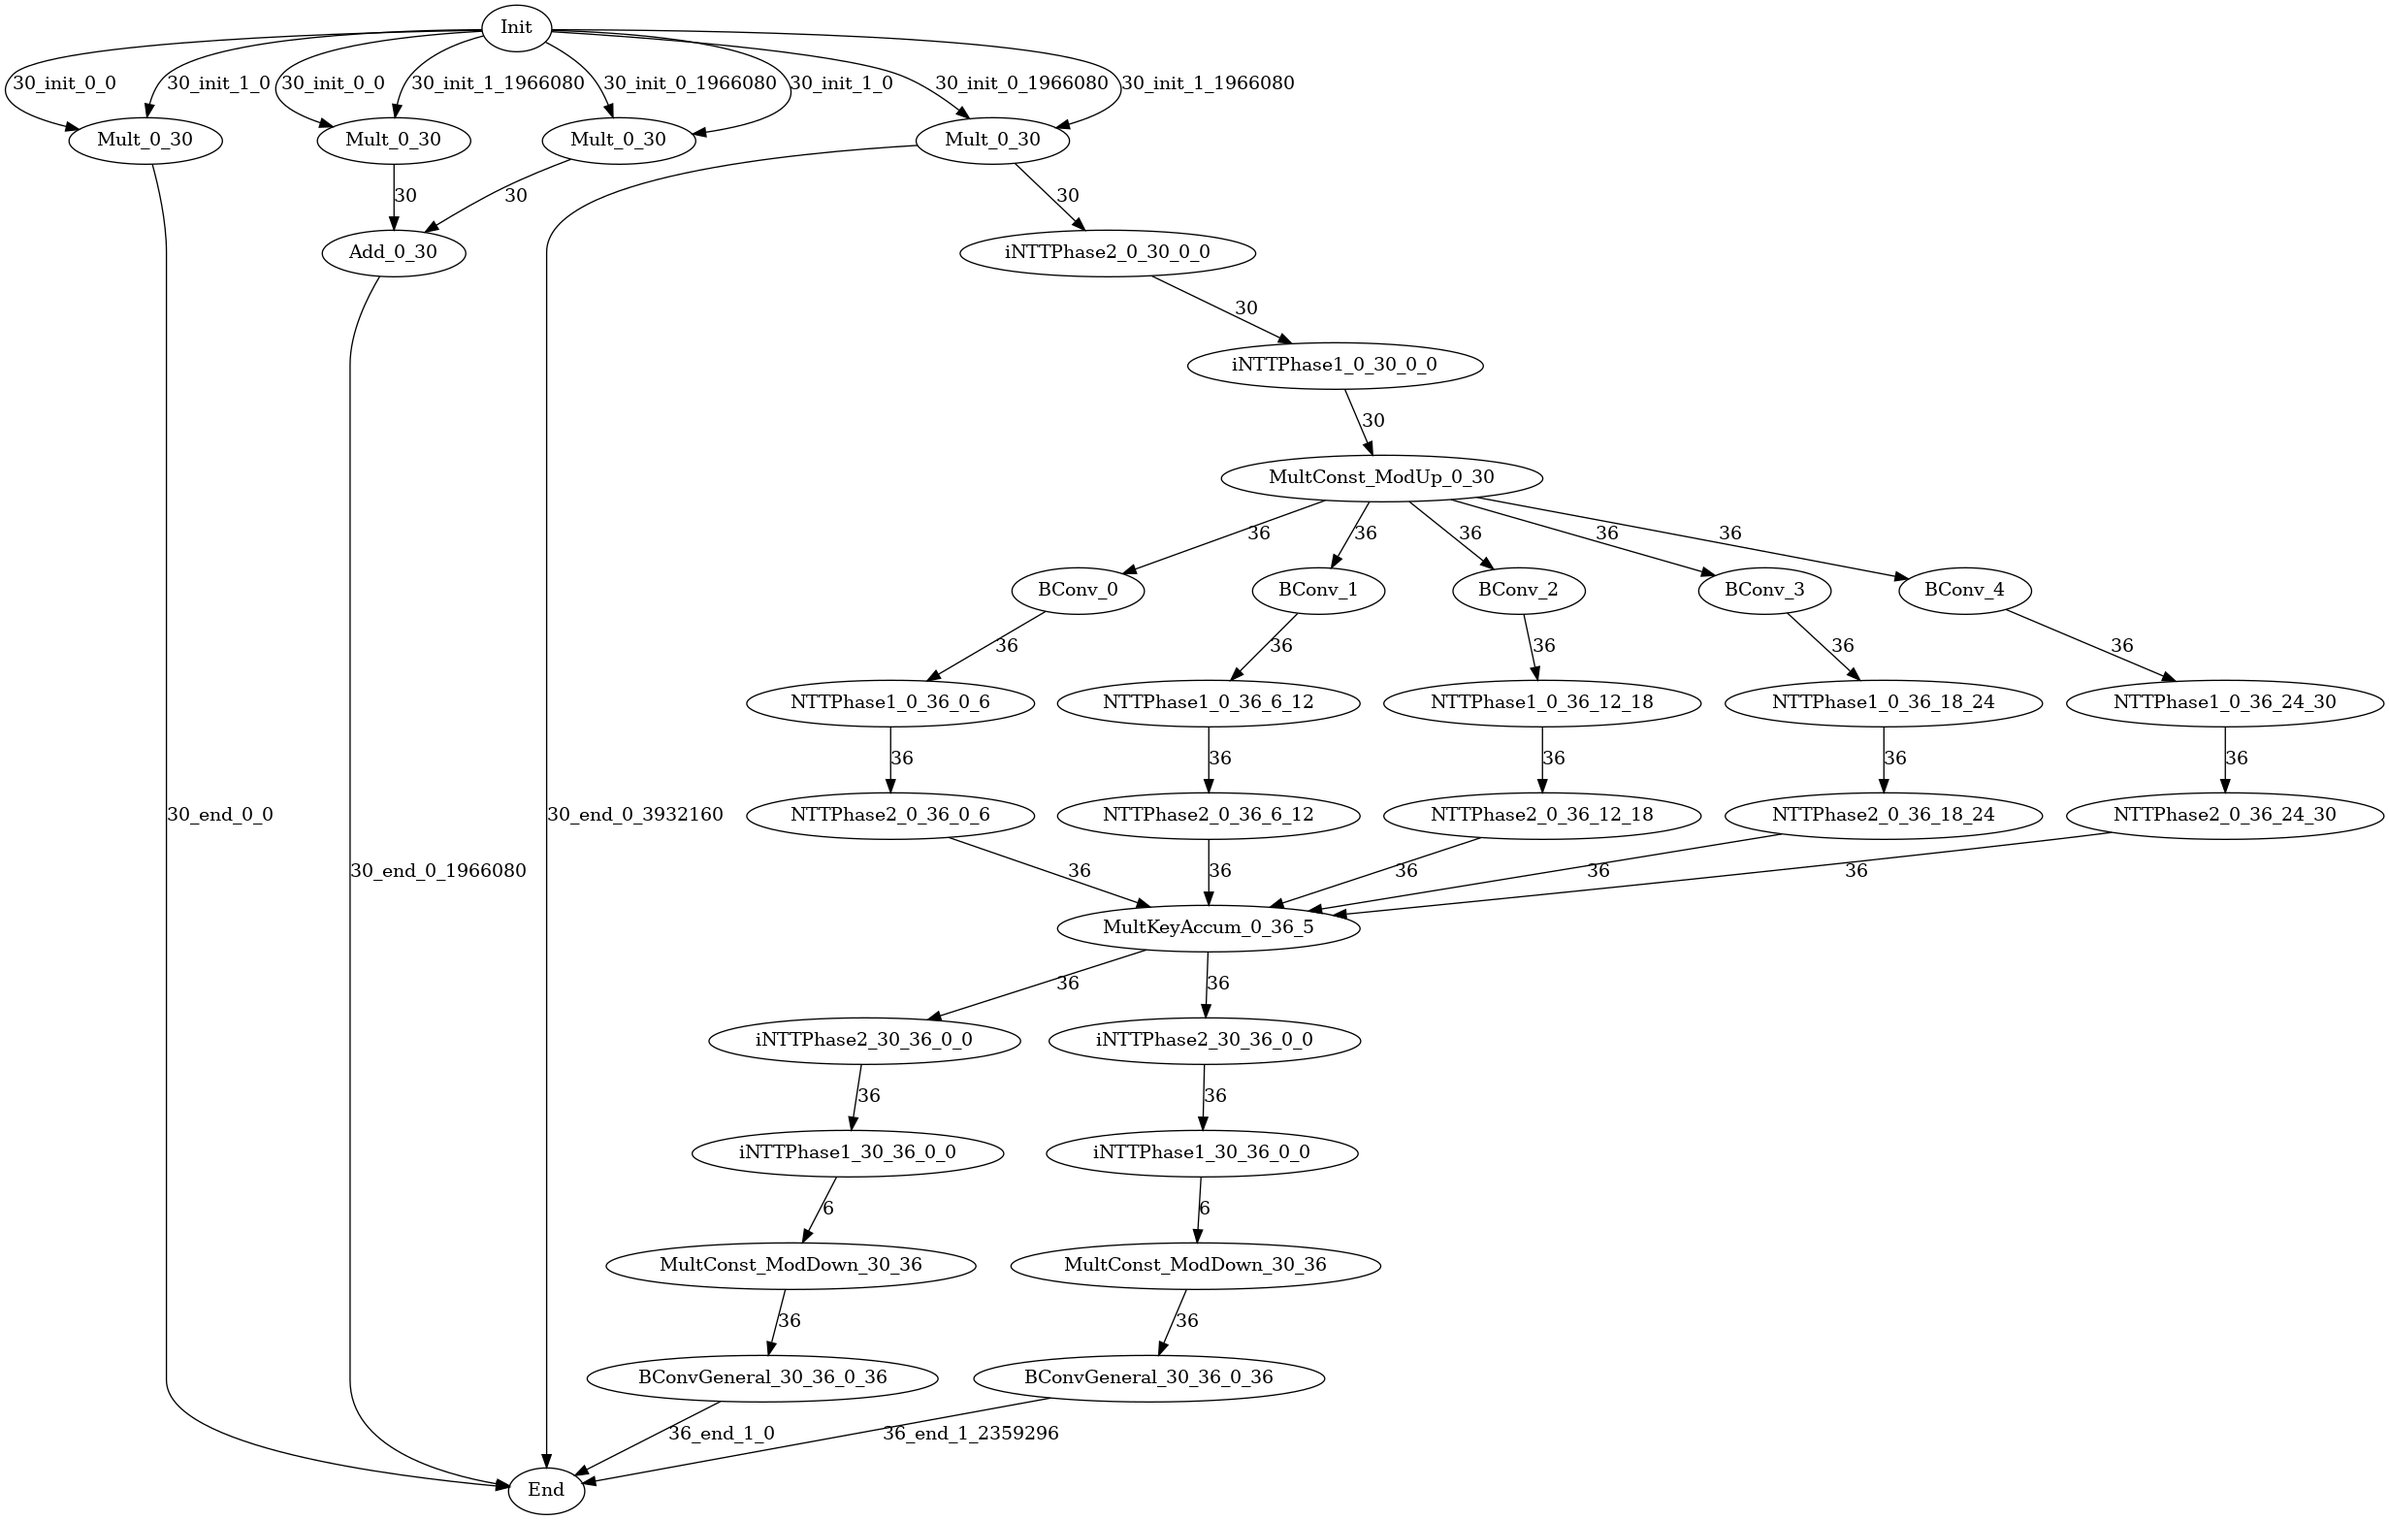
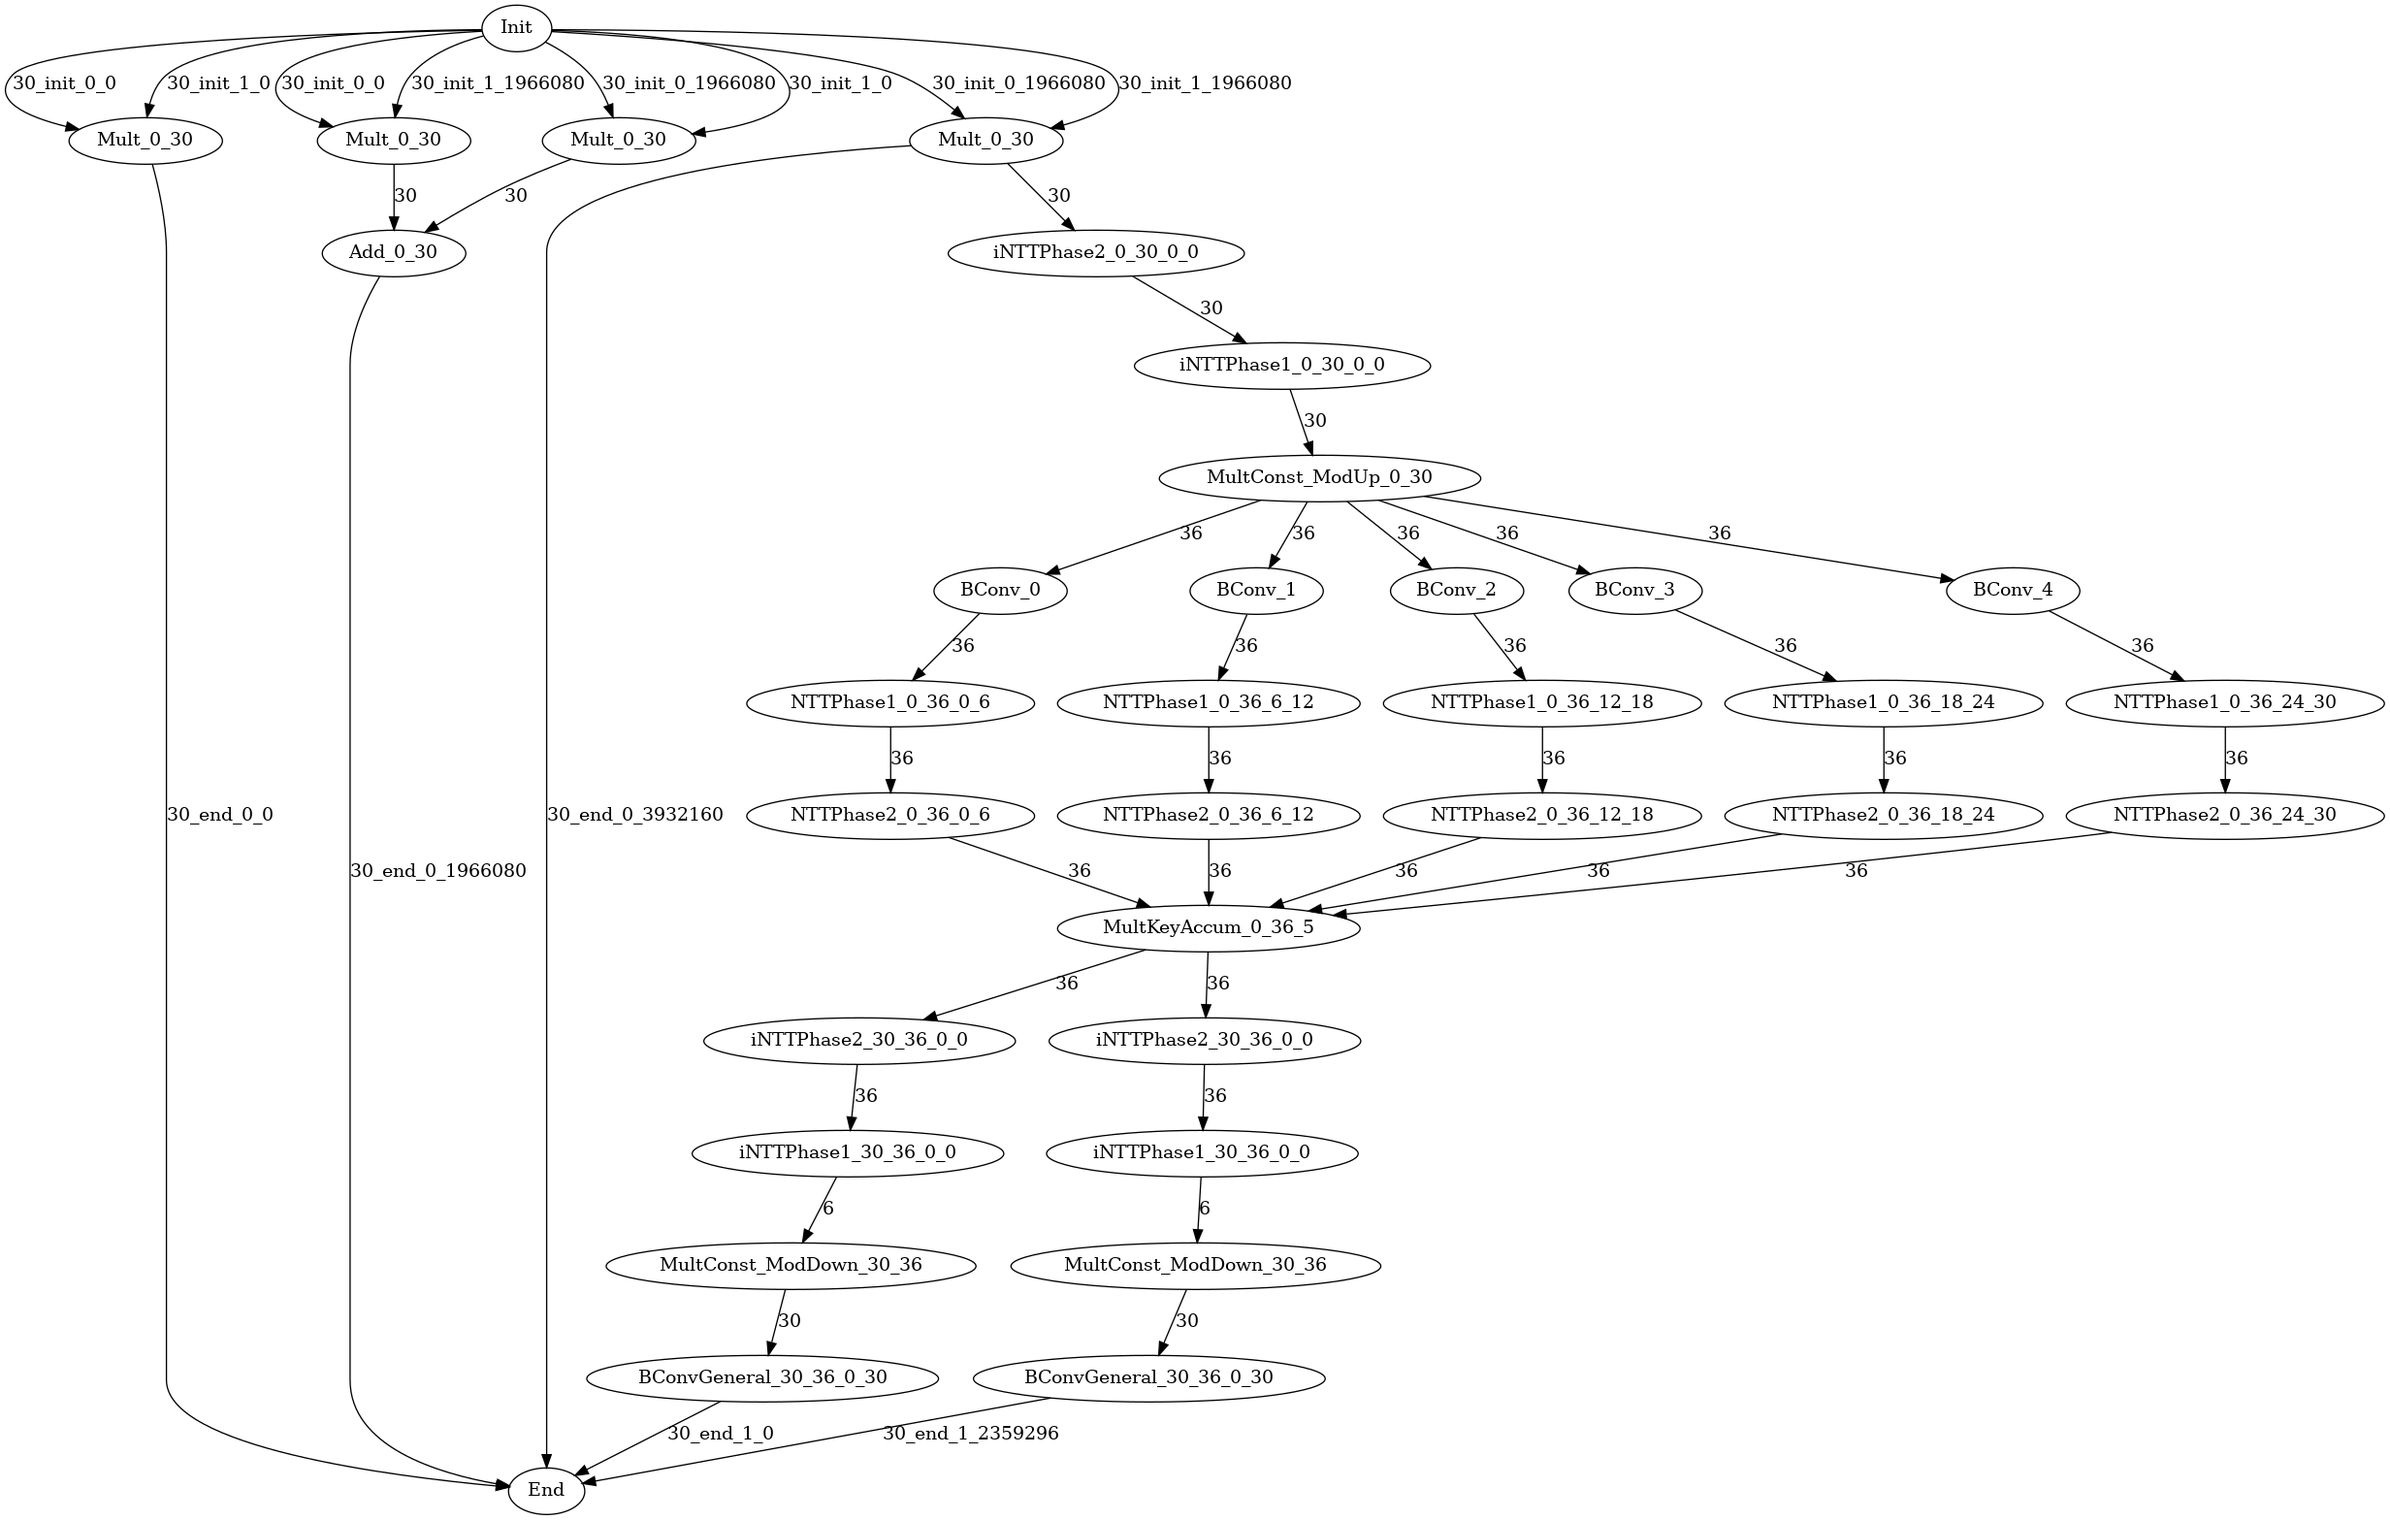
tmp

diff --git a/example/ckks_HMult/example.py b/example/ckks_HMult/example.py
@@ -109,8 +109,8 @@ inttp1_bx = pf.ntt(
 )
 moddown_scale_ax = pf.mul_const(inttp1_ax, "ModDownScaleAx", PrecomputedValue.ModDown, prm.L, prm.L + prm.K)
 moddown_scale_bx = pf.mul_const(inttp1_bx, "ModDownScaleBx", PrecomputedValue.ModDown, prm.L, prm.L + prm.K)
-bconv_ax = pf.bconv_general(moddown_scale_ax, f"BConv_ax", prm.L, prm.L + prm.K, 0, prm.L + prm.K)
-bconv_bx = pf.bconv_general(moddown_scale_bx, f"BConv_bx", prm.L, prm.L + prm.K, 0, prm.L + prm.K)
+bconv_ax = pf.bconv_general(moddown_scale_ax, f"BConv_ax", prm.L, prm.L + prm.K, 0, prm.L)
+bconv_bx = pf.bconv_general(moddown_scale_bx, f"BConv_bx", prm.L, prm.L + prm.K, 0, prm.L)
 res_ax = pf.end(bconv_ax, 1, 0)
 res_bx = pf.end(bconv_bx, 1, prm.N * (prm.L + prm.K))
 # res_ax = pf.end(moddown_scale_ax, 1, 0)

diff --git a/polyfhe/engine/codegen/cuda_codegen.cpp b/polyfhe/engine/codegen/cuda_codegen.cpp
@@ -1207,7 +1207,7 @@ void CudaCodegen::generate_call_kernels(
                   << "params_d, " << bconv_op->get_in_edges()[0]->get_name()
                   << "_d, " << bconv_op->get_out_edges()[0]->get_name()
                   << "_d, "
-                  << "moddown_mult, " << bconv_op->get_in_start_idx() << ", "
+                  << "moddown_matmul, " << bconv_op->get_in_start_idx() << ", "
                   << bconv_op->get_in_end_idx() - bconv_op->get_in_start_idx()
                   << ", " << bconv_op->get_out_start_idx() << ", "
                   << bconv_op->get_out_end_idx() - bconv_op->get_out_start_idx()
